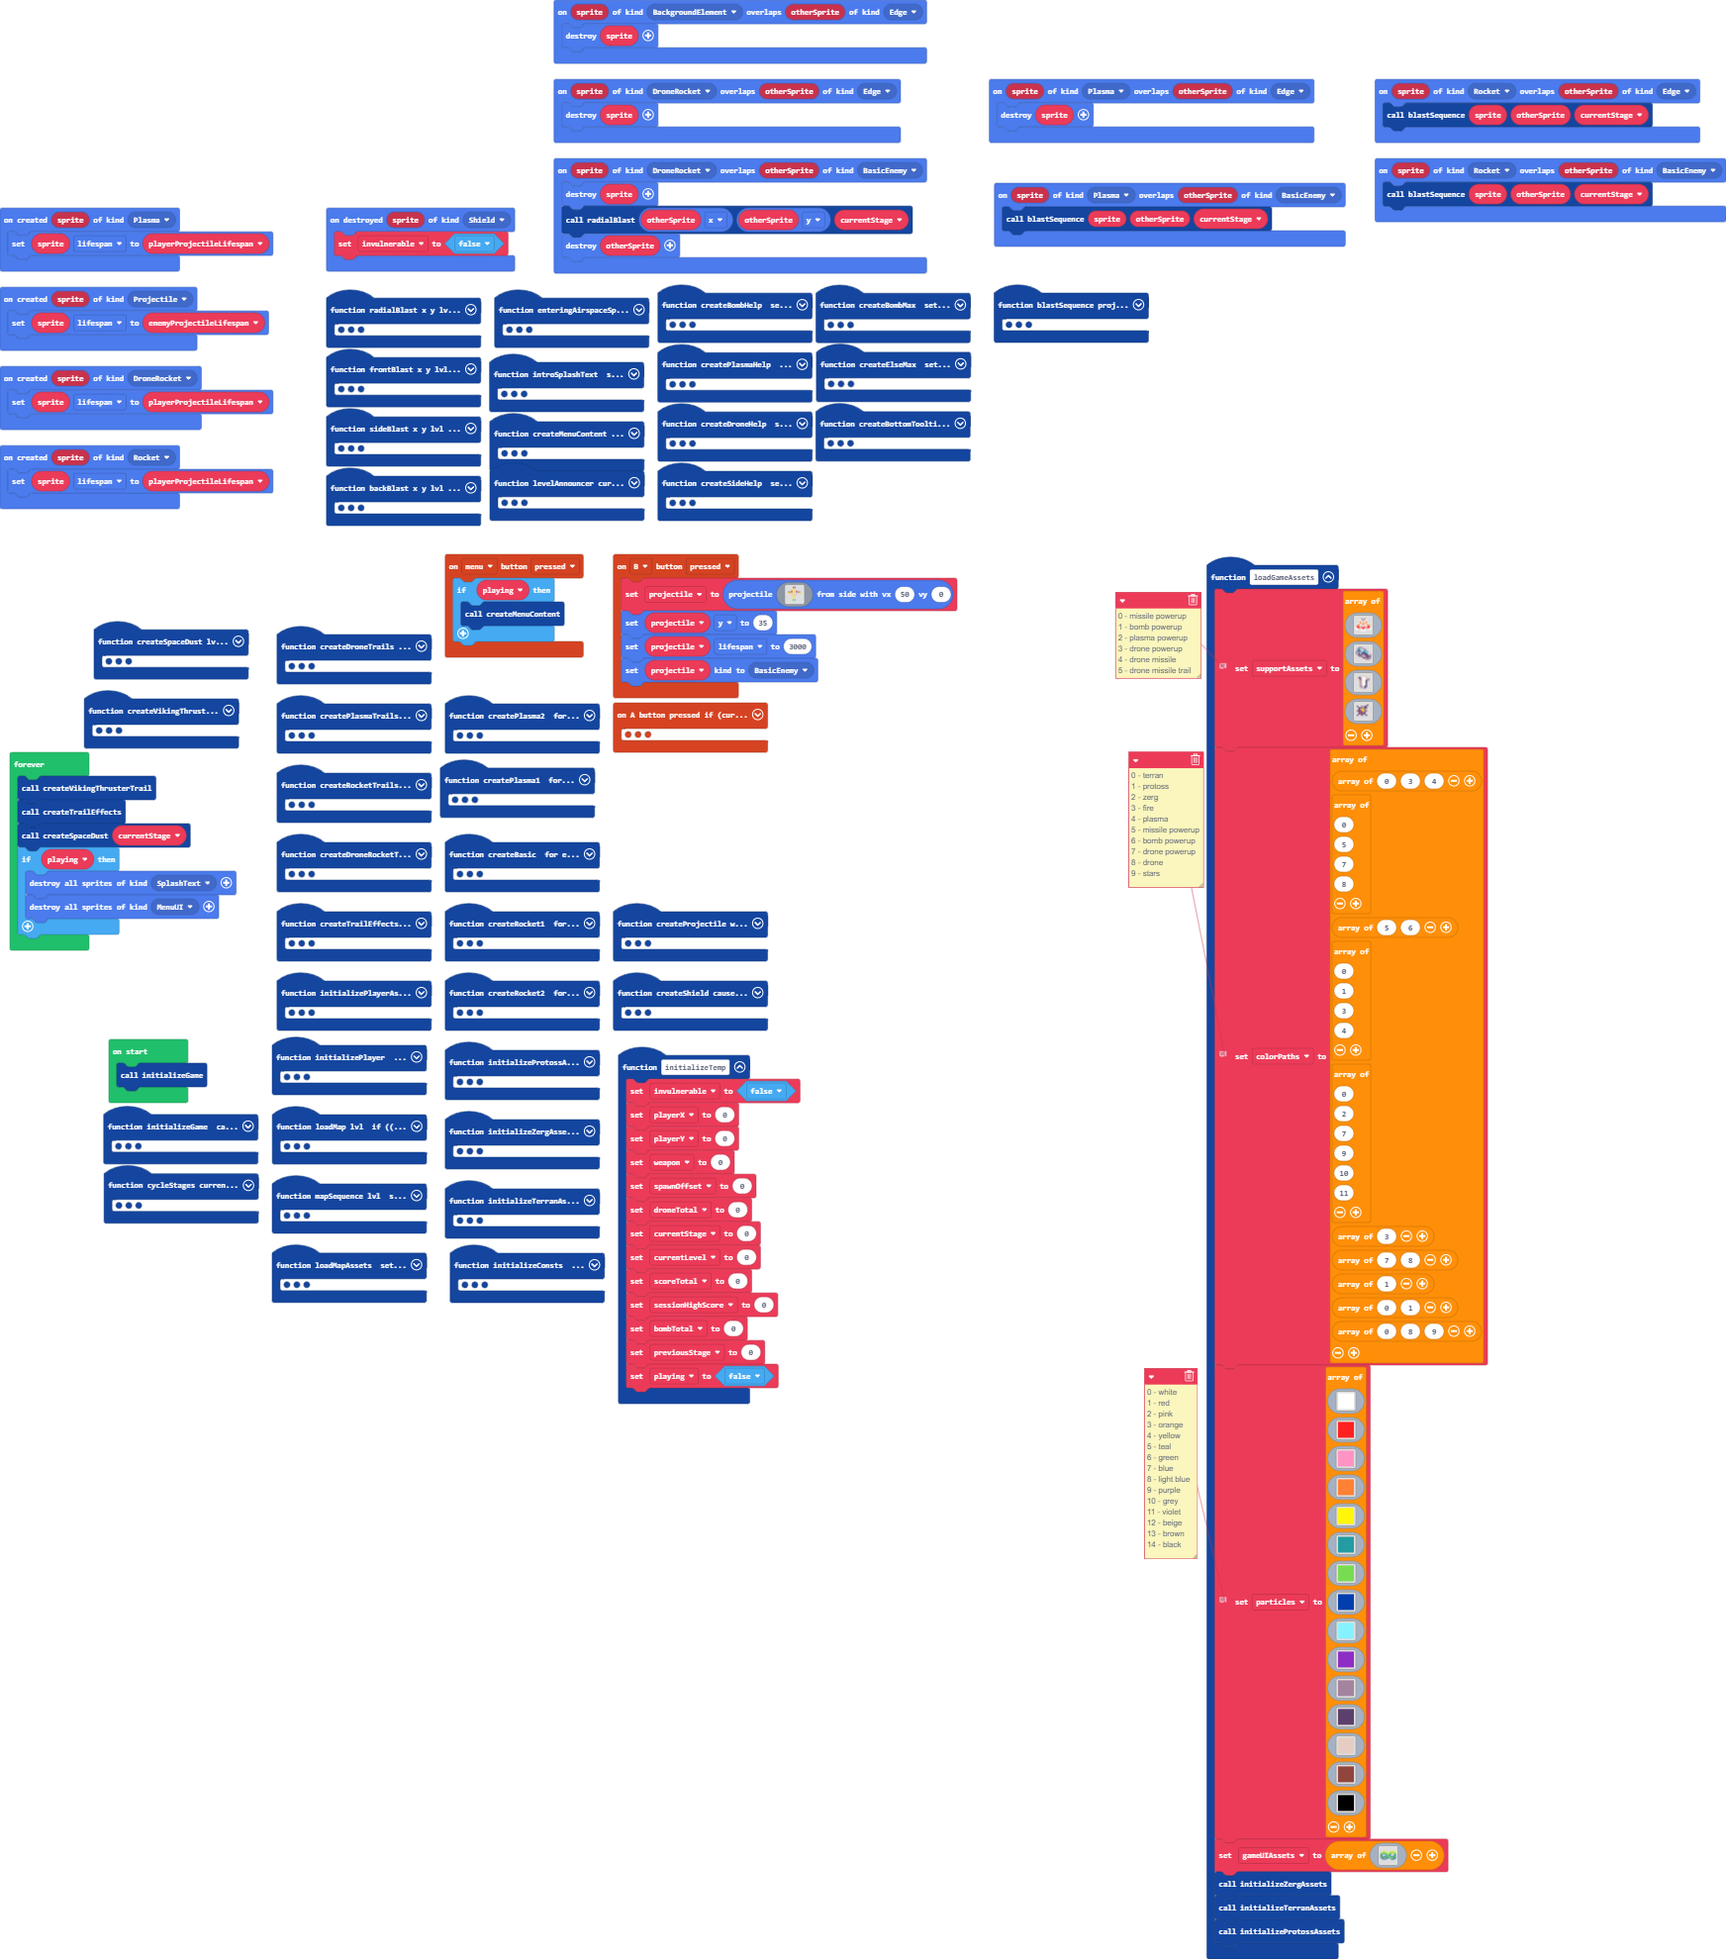
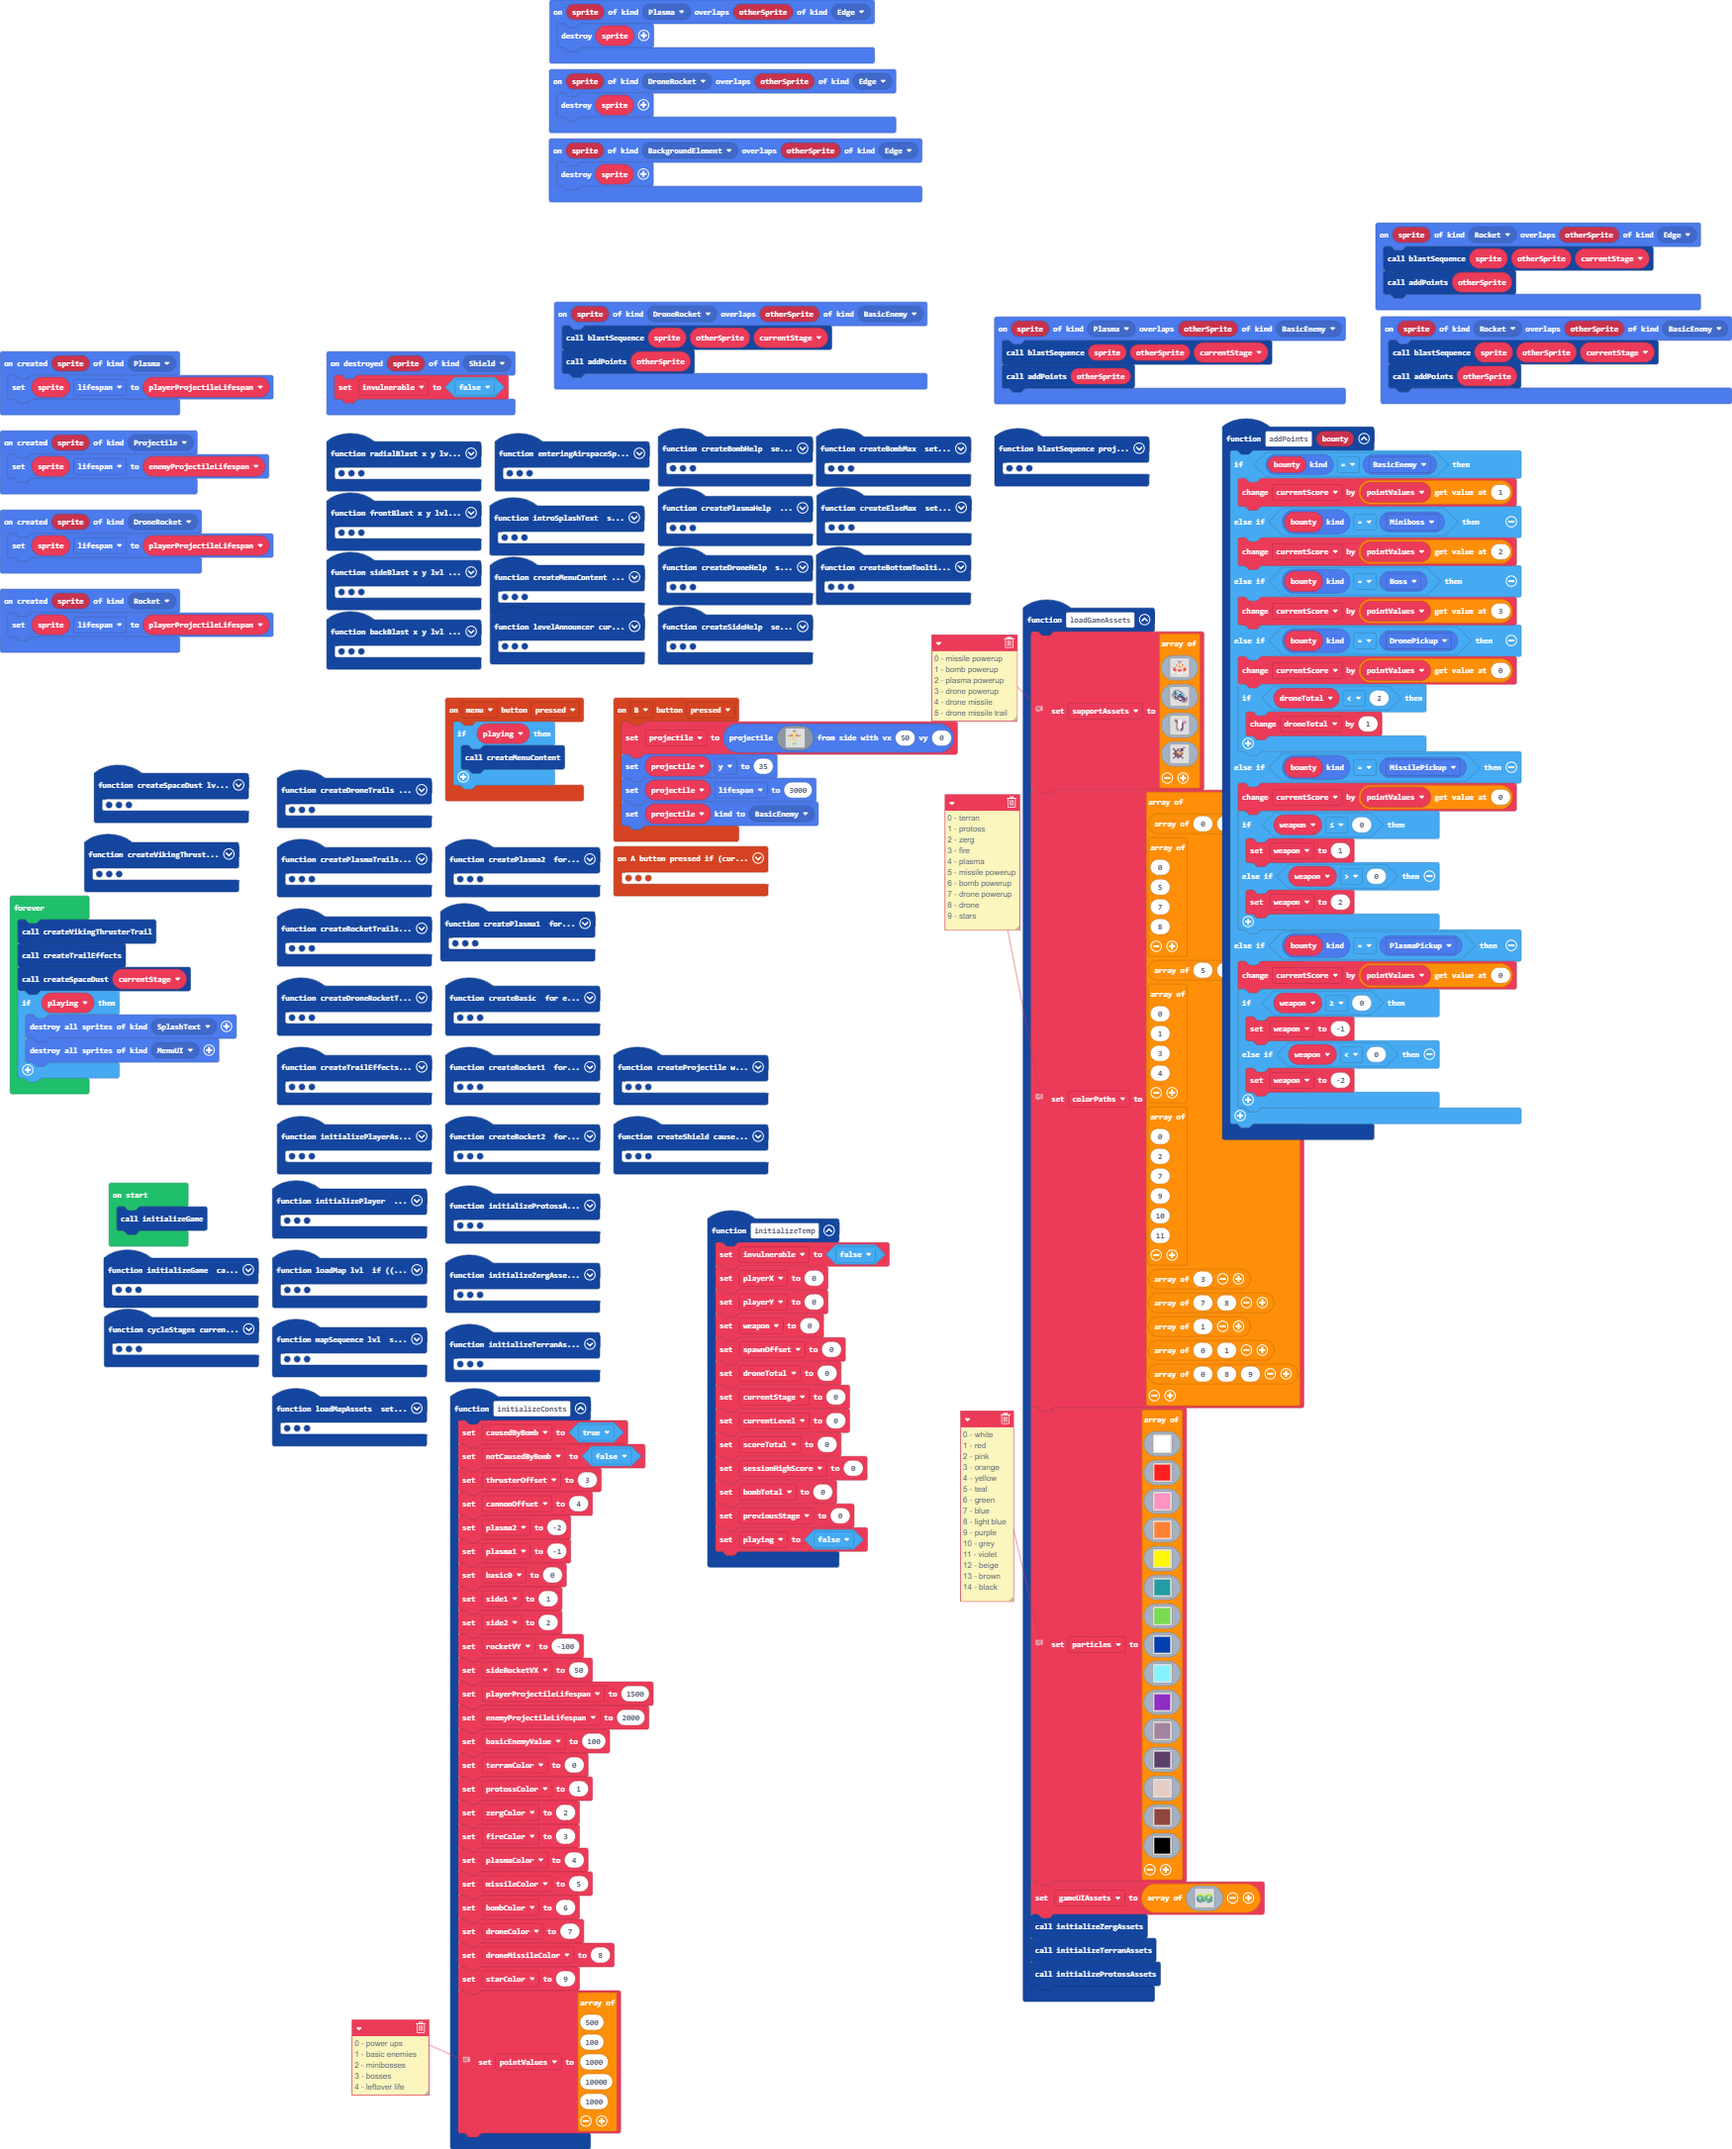
point bounty functionality built + powerup switching logic

diff --git a/main.ts b/main.ts
@@ -11,6 +11,12 @@ namespace SpriteKind {
     export const MenuUI = SpriteKind.create()
     export const BackgroundElement = SpriteKind.create()
     export const Edge = SpriteKind.create()
+    export const Miniboss = SpriteKind.create()
+    export const Boss = SpriteKind.create()
+    export const DronePickup = SpriteKind.create()
+    export const MissilePickup = SpriteKind.create()
+    export const PlasmaPickup = SpriteKind.create()
+    export const EnemyProjectile = SpriteKind.create()
 }
 function createPlasmaHelp () {
     demoAsset = sprites.create(supportAssets[2], SpriteKind.MenuUI)
@@ -1791,6 +1797,7 @@ function createRocket1 () {
 }
 sprites.onOverlap(SpriteKind.Rocket, SpriteKind.Edge, function (sprite, otherSprite) {
     blastSequence(sprite, otherSprite, currentStage)
+    addPoints(otherSprite)
 })
 function sideBlast (x: number, y: number, lvl: number) {
     if (lvl == 1) {
@@ -1828,9 +1835,8 @@ function sideBlast (x: number, y: number, lvl: number) {
     })
 }
 sprites.onOverlap(SpriteKind.DroneRocket, SpriteKind.BasicEnemy, function (sprite, otherSprite) {
-    sprites.destroy(sprite)
-    radialBlast(otherSprite.x, otherSprite.y, currentStage)
-    sprites.destroy(otherSprite)
+    blastSequence(sprite, otherSprite, currentStage)
+    addPoints(otherSprite)
 })
 function createBombMax () {
     textSprite = textsprite.create("MAX:", 0, 1)
@@ -1896,6 +1902,7 @@ function createVikingThrusterTrail () {
 }
 sprites.onOverlap(SpriteKind.Rocket, SpriteKind.BasicEnemy, function (sprite, otherSprite) {
     blastSequence(sprite, otherSprite, currentStage)
+    addPoints(otherSprite)
 })
 function initializeZergAssets () {
     zergAssets = [
@@ -2385,6 +2392,34 @@ function initializePlayerAssets () {
         `
     ]
 }
+function addPoints (bounty: Sprite) {
+    if (bounty.kind() == SpriteKind.BasicEnemy) {
+        currentScore += pointValues[1]
+    } else if (bounty.kind() == SpriteKind.Miniboss) {
+        currentScore += pointValues[2]
+    } else if (bounty.kind() == SpriteKind.Boss) {
+        currentScore += pointValues[3]
+    } else if (bounty.kind() == SpriteKind.DronePickup) {
+        currentScore += pointValues[0]
+        if (droneTotal < 2) {
+            droneTotal += 1
+        }
+    } else if (bounty.kind() == SpriteKind.MissilePickup) {
+        currentScore += pointValues[0]
+        if (weapon <= 0) {
+            weapon = 1
+        } else if (weapon > 0) {
+            weapon = 2
+        }
+    } else if (bounty.kind() == SpriteKind.PlasmaPickup) {
+        currentScore += pointValues[0]
+        if (weapon >= 0) {
+            weapon = -1
+        } else if (weapon < 0) {
+            weapon = -2
+        }
+    }
+}
 function initializeTemp () {
     invulnerable = false
     playerX = 0
@@ -2812,6 +2847,7 @@ function loadGameAssets () {
 }
 sprites.onOverlap(SpriteKind.Plasma, SpriteKind.BasicEnemy, function (sprite, otherSprite) {
     blastSequence(sprite, otherSprite, currentStage)
+    addPoints(otherSprite)
 })
 function createBasic () {
     for (let value of sprites.allOfKind(SpriteKind.Viking)) {
@@ -2851,9 +2887,10 @@ let protossAssets: Image[] = []
 let bombTotal = 0
 let sessionHighScore = 0
 let scoreTotal = 0
-let droneTotal = 0
 let playerY = 0
 let playerX = 0
+let droneTotal = 0
+let currentScore = 0
 let zergCombatAssets: Image[] = []
 let zergAssets: Image[] = []
 let thrusterEffectOffset = 0
